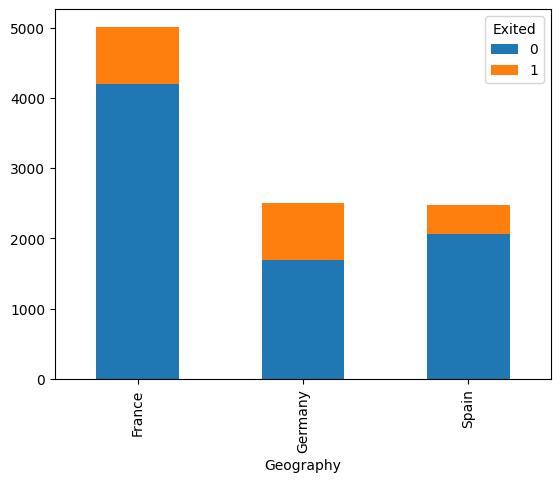
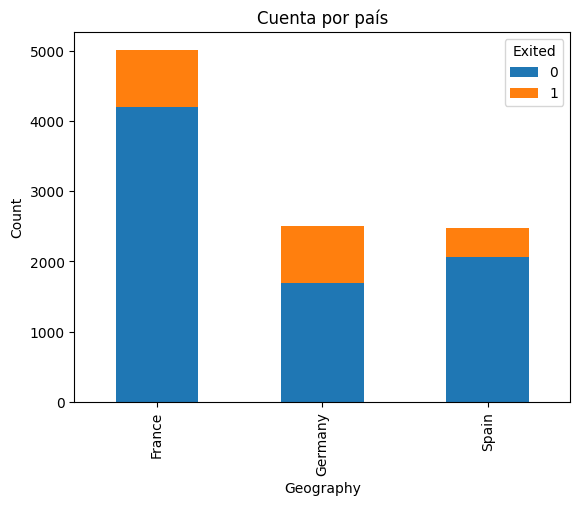
Primera parte de Readme/Inicio y explicación de algunos gráficos

Changed region(s): [[0.0, 0.0, 1.0, 0.9959]]

diff --git a/README.md b/README.md
@@ -1,0 +1,45 @@
+# 🧪 Proyecto churn de servicios del banco
+
+## ❓ Planteamiento del proyecto
+En un mundo en donde los dineros se trabajan mediante sistemas bancarios es natural que cada vez existan más organismos de este estilo, generando una gran competencia en donde los clientes tienen distintas opciones a elegir, por lo que es de gran importancia tener en claro cuales son los indicadores más claros que hacen de un cliente fiel al organismo bancario. Este proyecto se ha desarrollado con la intención de realizar un análisis sobre un dataset con datos bancarios de distintos usuarios, de los cuales, algunos han optado por retirarse y dejar de utilizar los productos del banco en cuestion. Con respecto a ello, es necesario identificar características que más influyen en la posibilidad de abandono de este caso. Además de generar modelos de Machine Learning capaces de predecir cuales son los clientes que potencialmente pueden realizar el abandono.
+
+## ℹ️ Dataset
+Recurso: Kaggle
+
+Registros: 10000
+
+## 🎯 Objetivo
+- Encontrar features con más impacto en el abandono (Exited)
+- Generar modelos capaces de identificar cliente potenciales de abandono
+
+## 🧹 Data cleaning
+En este dataset en concreto se ha revisado la existencia de datos nulos o textos vacíos, pero no se ha encontrado nada, se considera un dataset limpio.
+
+## 📈 EDA
+Insights:
+
+- Este dataset tiene un desbalance importante en el target (Exited), por lo que en el trabajo de ML será necesario ajustar pesos de clases
+![Cuenta de clases Exited](/outputs/figures/exited_count.png)
+
+- El CreditScore no es un buen indicador, aunque si se puede ver que los clientes que se van tienen un CreditScore parcialmente más bajo.
+![Distribución de CreditScore por Exited](/outputs/figures/creditscore_distribution_by_exited.png)
+
+- La mayor cantidad de clientes del banco son franceses, mientras que en Germany y Spain existe una cantidad muy similar.
+![Cuenta de clientes por país](/outputs/figures/exited_by_geography_count.png)
+
+- Germany es el país con más churn de los 3 en relación de su cantidad de clientes.
+![Cantidad de Exited por país](/outputs/figures/exited_by_geography_pies.png)
+
+- La mayor cantidad de clientes que han pasado por el banco son personas adultas entre los 35 a 40 años.
+![Distribución de edades](/outputs/figures/age_distribution.png)
+
+- Se han separado por grupos etarios los clientes, a lo cual se ha llegado a la conclusión de que los clientes con un abandono notorio son los que tienen entre 45 y 60 años.
+![Porcentaje de Exited por edad](outputs/figures/churn_by_ageGroup.png)
+
+- El tenure no es un buen indicador de Exited, aunque de todas formas, dentro de los clientes que se han ido, lo datos son un poco más variados.
+![Distribución de tenure por Exited](outputs/figures/tenure_distribution_by_exited.png)
+
+- Dentro de este dataset casi todos los clientes tienen un Balance de 0, aunque existe una tendencia de tener un Balance de al rededor de los 125000
+![Distribución de Balance](outputs/figures/balance_distribution.png)
+
+-